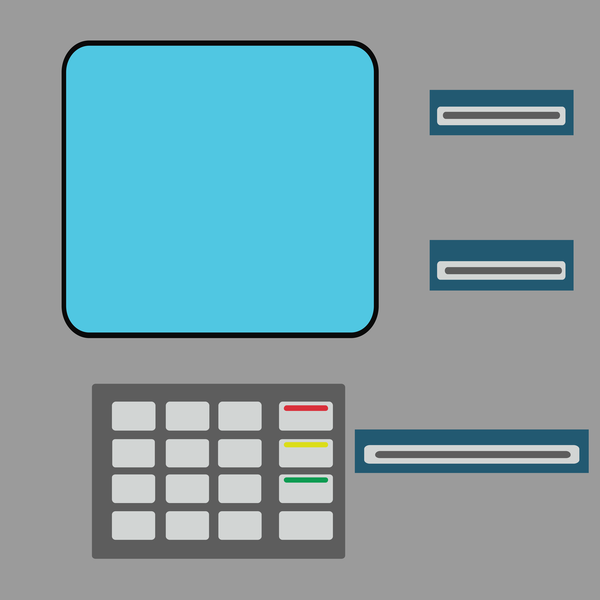
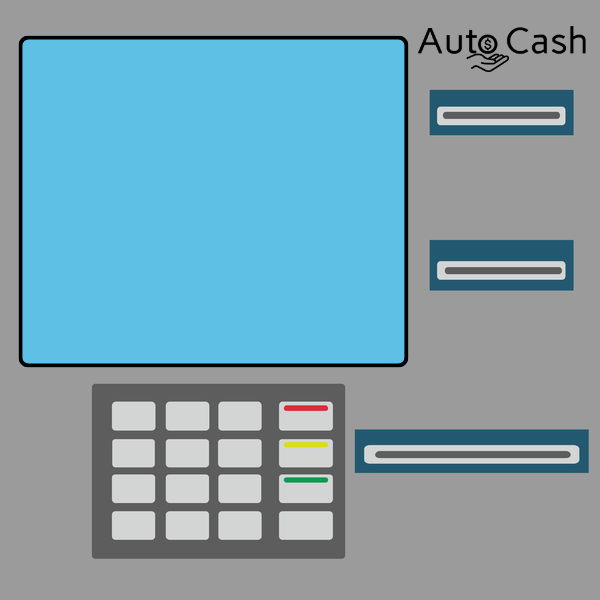
Atualizando backgrouns

Changed region(s): [[0.03, 0.03, 0.99, 0.63]]

diff --git a/autocash/main.py b/autocash/main.py
@@ -40,7 +40,7 @@ class AutocashApp:
             carregar_imagem()
 
             gerente = self.db.get(doc_id=cliente_id)
-            label_gerenre = tk.Label(self.janela, text='Olá, ' + gerente["nome"] + ".", font=('normal', 10), justify="left", bg="#50c7e2").place(x=120, y=50)
+            label_gerenre = tk.Label(self.janela, text='Olá, ' + gerente["nome"] + ".", font=('normal', 10), justify="left", bg="#5FC0E6").place(x=120, y=50)
 
             # Criando a barra de rolagem
             scrollbar = ttk.Scrollbar(self.janela, orient=tk.VERTICAL)
@@ -84,7 +84,7 @@ class AutocashApp:
                 for indice, cliente in enumerate(self.db.all()):
                     if cliente['cpf'] == cpf and cliente['senha'] == senha:
                         label_cliente['text'] = 'Login realizado com sucesso!'
-                        label_cliente['bg'] = '#50c7e2'
+                        label_cliente['bg'] = '#5FC0E6'
                         cliente_id = indice+1
                         usuario = self.db.get(doc_id=cliente_id)
                         if usuario['cadastro_nivel'] == 2: 
@@ -93,16 +93,16 @@ class AutocashApp:
                             abrir_menu(cliente_id)                   
                     else:
                         label_cliente['text'] = 'CPF ou senha inválidos!'
-                        label_cliente['bg'] = '#50c7e2'
+                        label_cliente['bg'] = '#5FC0E6'
        
-            label_cpf_login= tk.Label(self.janela, text= 'CPF:', background="#50c7e2")
+            label_cpf_login= tk.Label(self.janela, text= 'CPF:', background="#5FC0E6")
             label_cpf_login.pack()
             label_cpf_login.place(x=100, y=130)
             entry_cpf_login = tk.Entry(self.janela)
             entry_cpf_login.pack()
             entry_cpf_login.place(x=100, y=150)
 
-            label_senha = tk.Label(self.janela, text='Senha:', background="#50c7e2")
+            label_senha = tk.Label(self.janela, text='Senha:', background="#5FC0E6")
             label_senha.pack()
             label_senha.place(x=100, y=180)
             entry_senha = tk.Entry(self.janela, show='*')
@@ -123,7 +123,7 @@ class AutocashApp:
             button_asterisco = tk.Button(self.janela, text= '*', width=2).place(x=113, y=512)
             button_hashtag = tk.Button(self.janela, text= '#').place(x=219, y=513)
 
-            label_cliente = tk.Label(self.janela, text='', background="#50c7e2")
+            label_cliente = tk.Label(self.janela, text='', background="#5FC0E6")
             label_cliente.place(x=100, y=260)
 
         # FUNÇÃO SAQUE: OK #
@@ -137,7 +137,7 @@ class AutocashApp:
             label.image = nova_imagem
             
             def atualiza_tela(valor):
-                label_cabecalho = tk.Label(self.janela, text=cliente["nome"] + ", seu saldo é:\nR$ " + str(cliente['saldo']-valor) + '\n\n       REALIZAR SAQUE:', font=('normal', 11), justify="left", bg="#50c7e2").place(x=120, y=50)
+                label_cabecalho = tk.Label(self.janela, text=cliente["nome"] + ", seu saldo é:\nR$ " + str(cliente['saldo']-valor) + '\n\n       REALIZAR SAQUE:', font=('normal', 11), justify="left", bg="#5FC0E6").place(x=120, y=50)
                 imagem = Image.open(self.diretorio_atual + "/images/atm_bg_dinheiro.png")
                 nova_imagem = ImageTk.PhotoImage(imagem)
                 label.configure(image=nova_imagem)
@@ -155,18 +155,18 @@ class AutocashApp:
                     print(valor)
                     if transacao.saque(cliente_id, valor):
                         atualiza_tela(valor)
-                        mensagem_label = tk.Label(self.janela, text="Saque realizado com sucesso, seu saldo atual é:\nR$ " + str(cliente['saldo']-valor), background="#50c7e2")
+                        mensagem_label = tk.Label(self.janela, text="Saque realizado com sucesso, seu saldo atual é:\nR$ " + str(cliente['saldo']-valor), background="#5FC0E6")
                         mensagem_label.pack()
                         mensagem_label.place(x=90, y=200)
                     else:
-                        mensagem_label = tk.Label(self.janela, text="Saldo insuficiente. Saque não realizado", background="#50c7e2")
+                        mensagem_label = tk.Label(self.janela, text="Saldo insuficiente. Saque não realizado", background="#5FC0E6")
                         mensagem_label.pack()
                         mensagem_label.place(x=100, y=200)
 
-            label_cabecalho = tk.Label(self.janela, text=cliente["nome"] + ", seu saldo é:\nR$ " + str(cliente['saldo']) + '\n\n       REALIZAR SAQUE:', font=('normal', 11), justify="left", bg="#50c7e2").place(x=120, y=50)
-            label_rodape = tk.Label(self.janela, text='Use "*" para voltar ao menu', font=('normal', 11), justify="left", bg="#50c7e2").place(x=120, y=300)
+            label_cabecalho = tk.Label(self.janela, text=cliente["nome"] + ", seu saldo é:\nR$ " + str(cliente['saldo']) + '\n\n       REALIZAR SAQUE:', font=('normal', 11), justify="left", bg="#5FC0E6").place(x=120, y=50)
+            label_rodape = tk.Label(self.janela, text='Use "*" para voltar ao menu', font=('normal', 11), justify="left", bg="#5FC0E6").place(x=120, y=300)
 
-            label_valor= tk.Label(self.janela, text= 'Valor:', background="#50c7e2")
+            label_valor= tk.Label(self.janela, text= 'Valor:', background="#5FC0E6")
             label_valor.pack()
             label_valor.place(x=100, y=130)
             entry_valor = tk.Entry(self.janela)
@@ -197,25 +197,25 @@ class AutocashApp:
             label.config(image=nova_imagem)
             label.image = nova_imagem
 
-            conta_origem_label = tk.Label(self.janela, text="Número da conta de origem:", background="#50c7e2")
+            conta_origem_label = tk.Label(self.janela, text="Número da conta de origem:", background="#5FC0E6")
             conta_origem_label.pack()
             conta_origem_label.place(x=100, y=90)
             conta_origem_entry = tk.Entry(self.janela)
             conta_origem_entry.place(x=100, y=110)
 
-            conta_destino_label = tk.Label(self.janela, text="Número da conta de destino:", background="#50c7e2")
+            conta_destino_label = tk.Label(self.janela, text="Número da conta de destino:", background="#5FC0E6")
             conta_destino_label.pack()
             conta_destino_label.place(x=100, y=140)
             conta_destino_entry = tk.Entry(self.janela)
             conta_destino_entry.place(x=100, y=160)
 
-            valor_label = tk.Label(self.janela, text="Valor do pagamento:", background="#50c7e2")
+            valor_label = tk.Label(self.janela, text="Valor do pagamento:", background="#5FC0E6")
             valor_label.place(x=100, y=190)
             valor_entry = tk.Entry(self.janela)
             valor_entry.place(x=100, y=210)
             
             agendar_var = tk.IntVar()
-            agendar_checkbox = tk.Checkbutton(self.janela, text="Agendar pagamento", variable=agendar_var, background="#50c7e2")
+            agendar_checkbox = tk.Checkbutton(self.janela, text="Agendar pagamento", variable=agendar_var, background="#5FC0E6")
             agendar_checkbox.place(x=100, y=240)
             
 
@@ -227,11 +227,11 @@ class AutocashApp:
             label.place(x=0, y=0, relwidth=1, relheight=1)
             cliente = self.db.get(doc_id=cliente_id)
 
-            label_cabecalho = tk.Label(self.janela, text='Olá, ' + cliente["nome"] + ".", font=('normal', 10), justify="left", bg="#50c7e2").place(x=120, y=50)
+            label_cabecalho = tk.Label(self.janela, text='Olá, ' + cliente["nome"] + ".", font=('normal', 10), justify="left", bg="#5FC0E6").place(x=120, y=50)
 
             opcoes_texto = "Menu:\n\n1 - Extrato\n2 - Saque\n3 - Depósito\n4 - Realizar pagamento\n5 - Solicitar crédito\n6 - Sair\n\nEntre com a sua opção: _ "
 
-            label_opcoes = tk.Label(self.janela, text=opcoes_texto, font=('normal', 13), justify="left", bg="#50c7e2").place(x=90, y=90)
+            label_opcoes = tk.Label(self.janela, text=opcoes_texto, font=('normal', 13), justify="left", bg="#5FC0E6").place(x=90, y=90)
 
             button_1 = tk.Button(self.janela, text= '1', width=2).place(x=113, y=404)
             button_2 = tk.Button(self.janela, text='2', width=2, command=lambda: abrir_saque(cliente_id)).place(x=166, y=404)
@@ -252,7 +252,7 @@ class AutocashApp:
         while True:
             opcoes_texto = 'Bem-vindo ao autocash.\nEscolha uma das opções abaixo:\n\n  1 - Fazer login\n  2 - Realizar cadastro'
 
-            label_opcoes = tk.Label(self.janela, text=opcoes_texto, font=("normal", 14), justify="left", bg="#50c7e2", wraplength=300).place(x=80, y=90)
+            label_opcoes = tk.Label(self.janela, text=opcoes_texto, font=("normal", 14), justify="left", bg="#5FC0E6", wraplength=300).place(x=80, y=90)
 
             button_1 = tk.Button(self.janela, text= '1', width=2, command=fazer_login).place(x=113, y=404)
             button_2 = tk.Button(self.janela, text= '2', width=2, command=realizar_cadastro).place(x=166, y=404)
